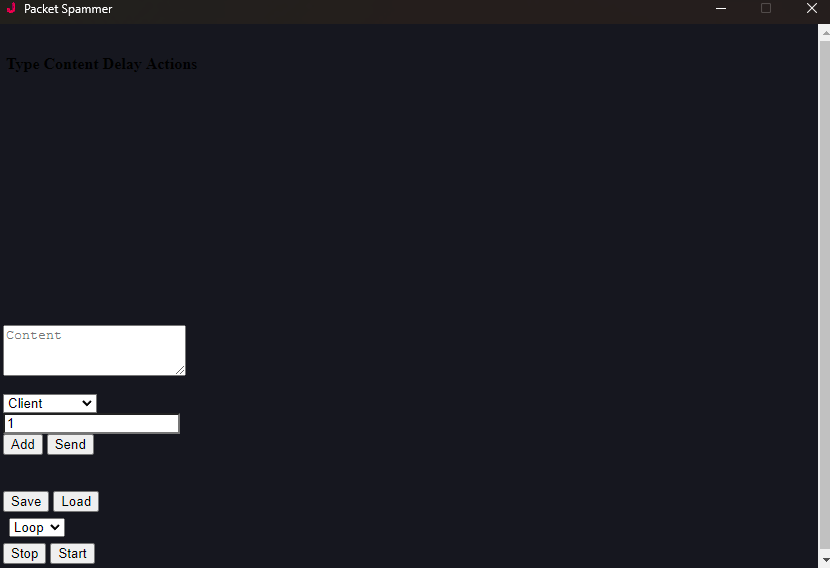
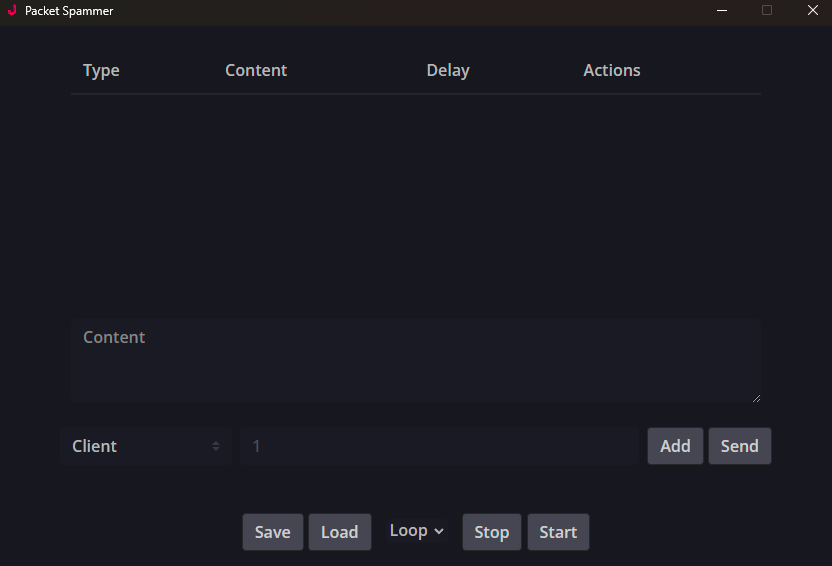
Updated relevant screenshots, added to README.md, and reworded guide

diff --git a/community-guide/guide.md b/community-guide/guide.md
@@ -11,7 +11,6 @@
 
 # Installation
 
-
 Make sure you get the latest copy from [Releases](https://github.com/sxip/jam/releases) on the right of the page by clicking the file for your platform. Do not download a Zip from under the Code section unless you're trying to run from source.
 
 ![releases.png](Images/releases.png)
@@ -53,7 +52,7 @@ If you're just getting familiar with Jam, there are some built in commands you c
 - `color`
     Randomly changes your animal's colors
 
-Not sure how outfit cycling works so won't be covering that here. Feel free to make a pr if you wan't to document more here.
+Not sure how outfit cycling works so won't be covering that. Feel free to make a pr if you wan't to document more here.
 
 ## **Networking**
 
@@ -65,7 +64,9 @@ If you go the network tab on the top right after you've logged in, you should se
 
 ---
 
-These are Packets. Ones highlighted in green are outgoing from your client, grey is recieving/server sided. This was taken while playing The Return of the Phantoms. Each is formatted differently depending on what's intended to be performed/communicated.
+These are Packets. Packets are small units of data that are transmitted over the network to communicate between your client, and the server. Ones highlighted in green are outgoing from your client, grey is recieving/server sided. This screenshot was taken while playing The Return of the Phantoms. Each is formatted differently depending on what's intended to be performed/communicated.
+
+**For example;** If you move your character to a certain spot in a room, updated location information would be sent to the server via a packet, so your position can update on other player's screens.
 
 You can customize, and send your own packets by clicking on the Packet Spammer to the left of the window.
 
@@ -73,13 +74,15 @@ You can customize, and send your own packets by clicking on the Packet Spammer t
 
 ![packetspammer.png](Images/packetspammer.png)
 
-Enter the packet you want to send into the Content field. To understand how to customize certain aspects of your packet depending on what it's for, refer to the [DefPacks](#defpacks) section. You can also add multiple packets to a list by clicking add after you have what you want in the Content field, and run each one in order. If you'd like you can save your list setup with the save button.
+Enter the packet you want to send into the Content field. You can also add multiple packets to a list by clicking add after you have what you want in the Content field, and run each one in order. If you'd like you can save your list setup with the save button.
 
-Delay can be set in the second field which is autofilled with 1.
+Delay between sending packets in your list can be set as well which is autofilled with 1, decimals are also supported. 
+
+To understand how to customize certain aspects of your packet depending on what it's for, refer to the [DefPacks](#defpacks) section.
 
 # DefPacks
 
-DefPacks contain information about different aspects of the game for reference, like IDs, colors, etc.
+DefPacks contain information about different aspects of the game for reference.
 
 ## **Retrieving**
 
@@ -99,4 +102,4 @@ Now if we look in the json file labeled Animals in our DefPacks, we can search f
 
 As you can see the ID of the animal is 3, and there is also a 3 in our packet seperated by two `%` characters. So this must be where the ID is located. Replace that with whatever you like in the DefPacks as long as you have a sufficient amount of Gems/Diamonds, and send it with the packet spammer set to Animal Jam and not Client on the dropdown.
 
-Relog, and you should have your animal.
+Reload, and you should have your animal.

diff --git a/README.md b/README.md
@@ -24,6 +24,7 @@ Jam is a modular man-in-the-middle proxy designed for [Animal Jam Classic](https
 - [Guides](#guides)
   - [Playing Animal Jam Play Wild with Jam](docs/play-wild.md)
   - [Running and Troubleshooting Jam on macOS](docs/macos-guide.md)
+  - [Community Guide](community-guide/guide.md)
 
 
 ## Installation
